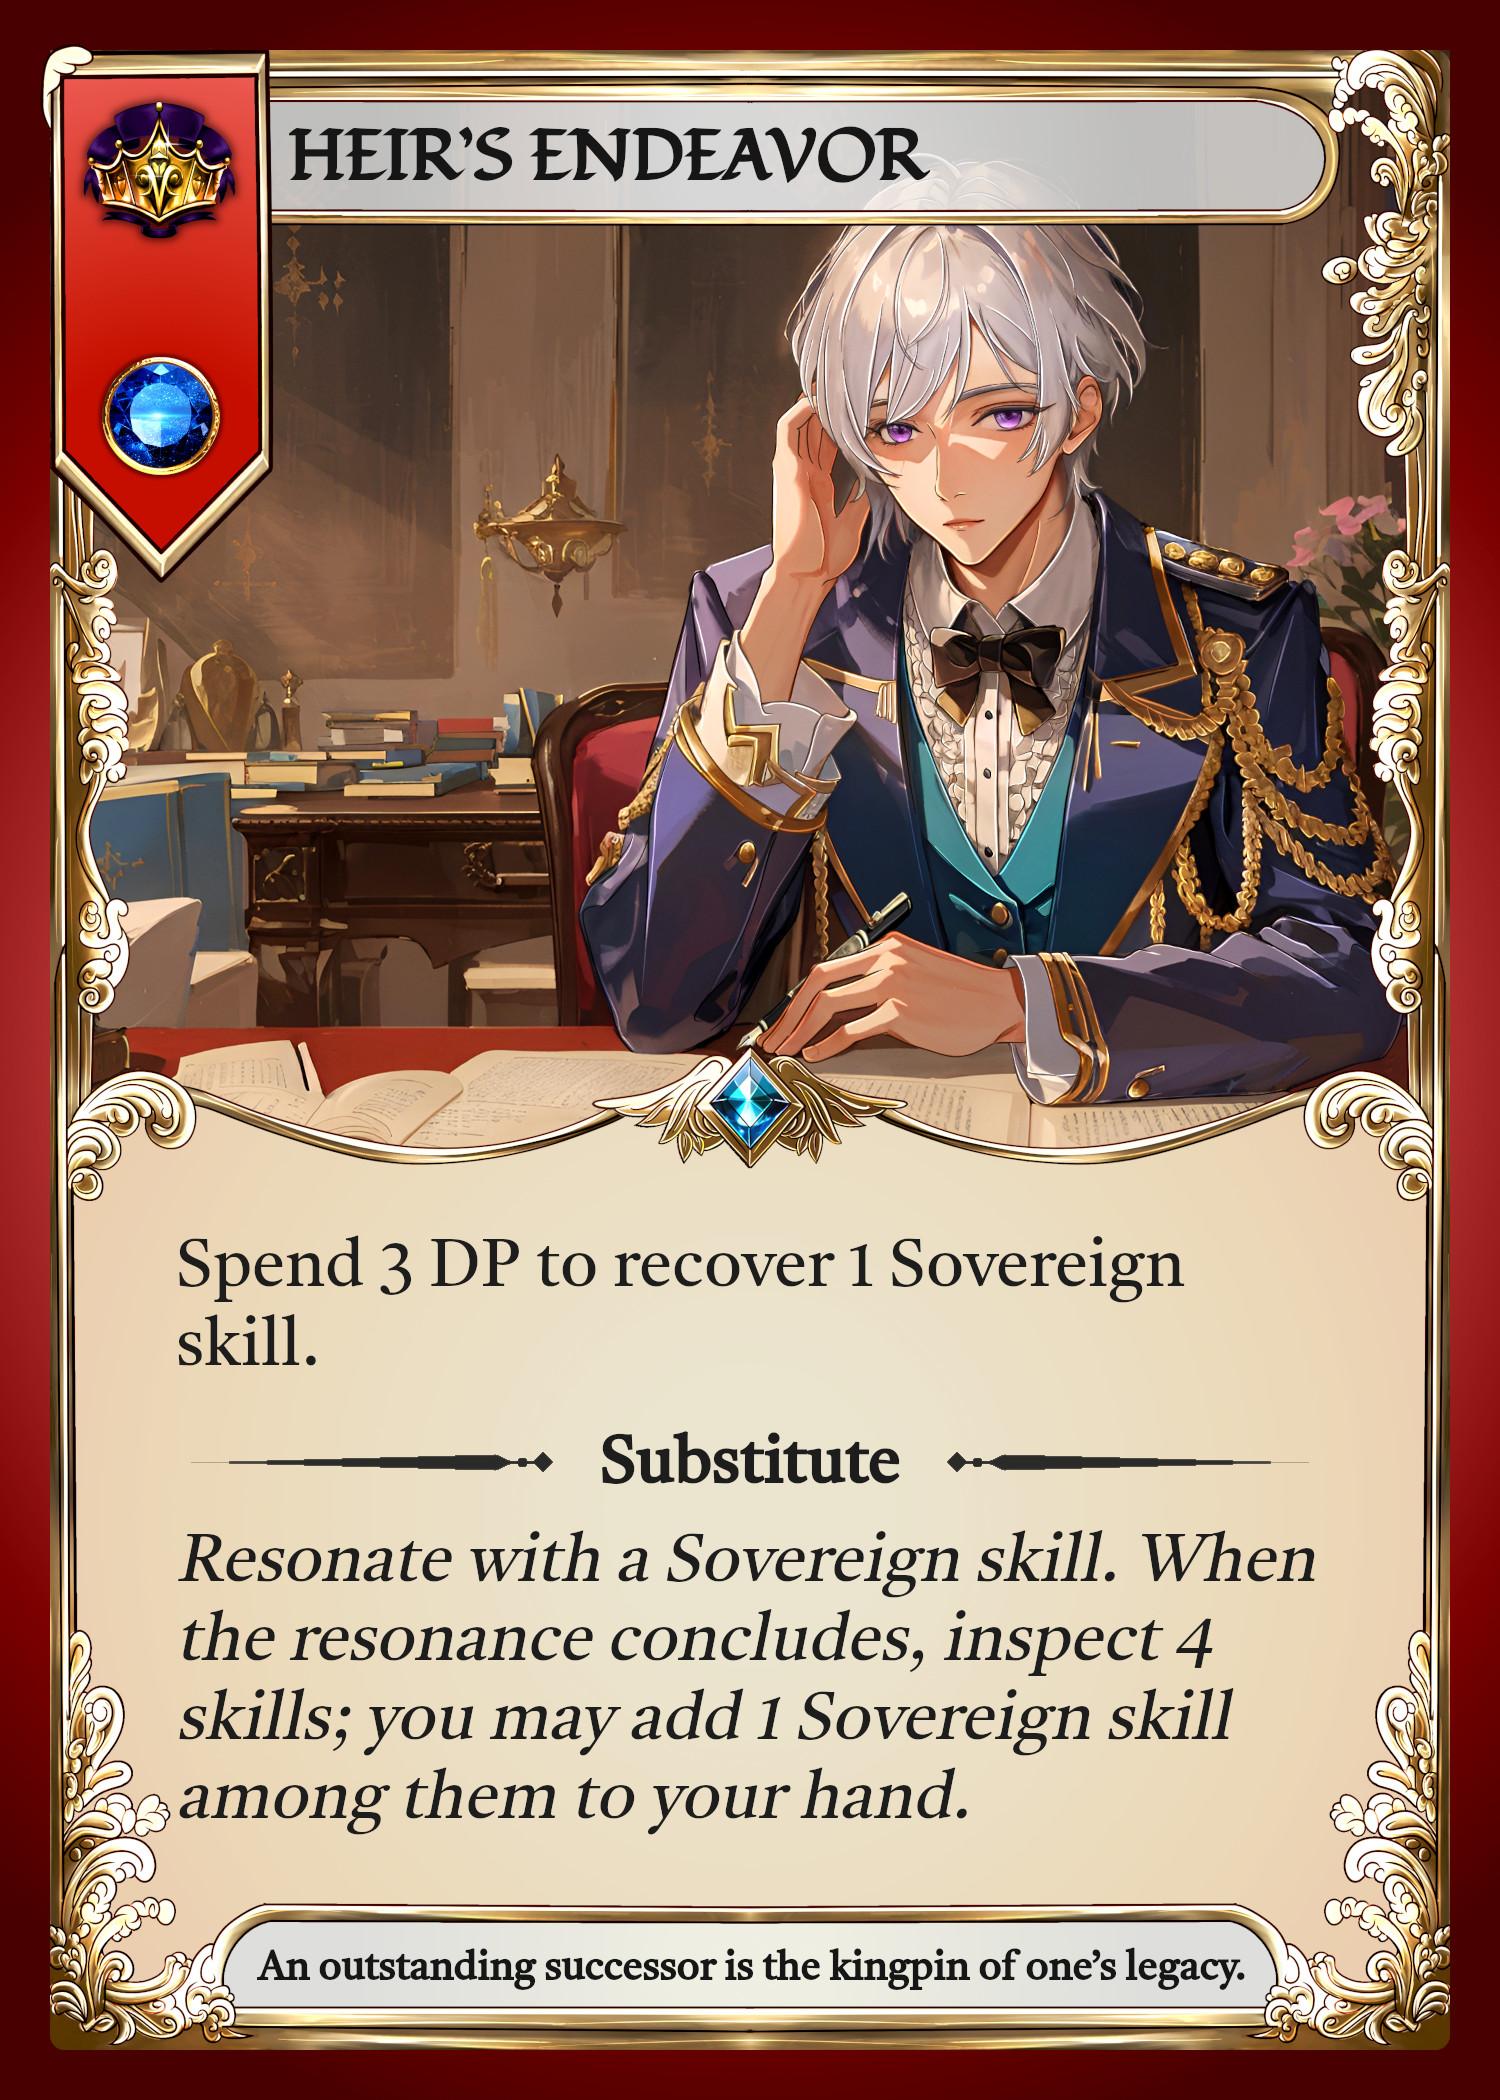
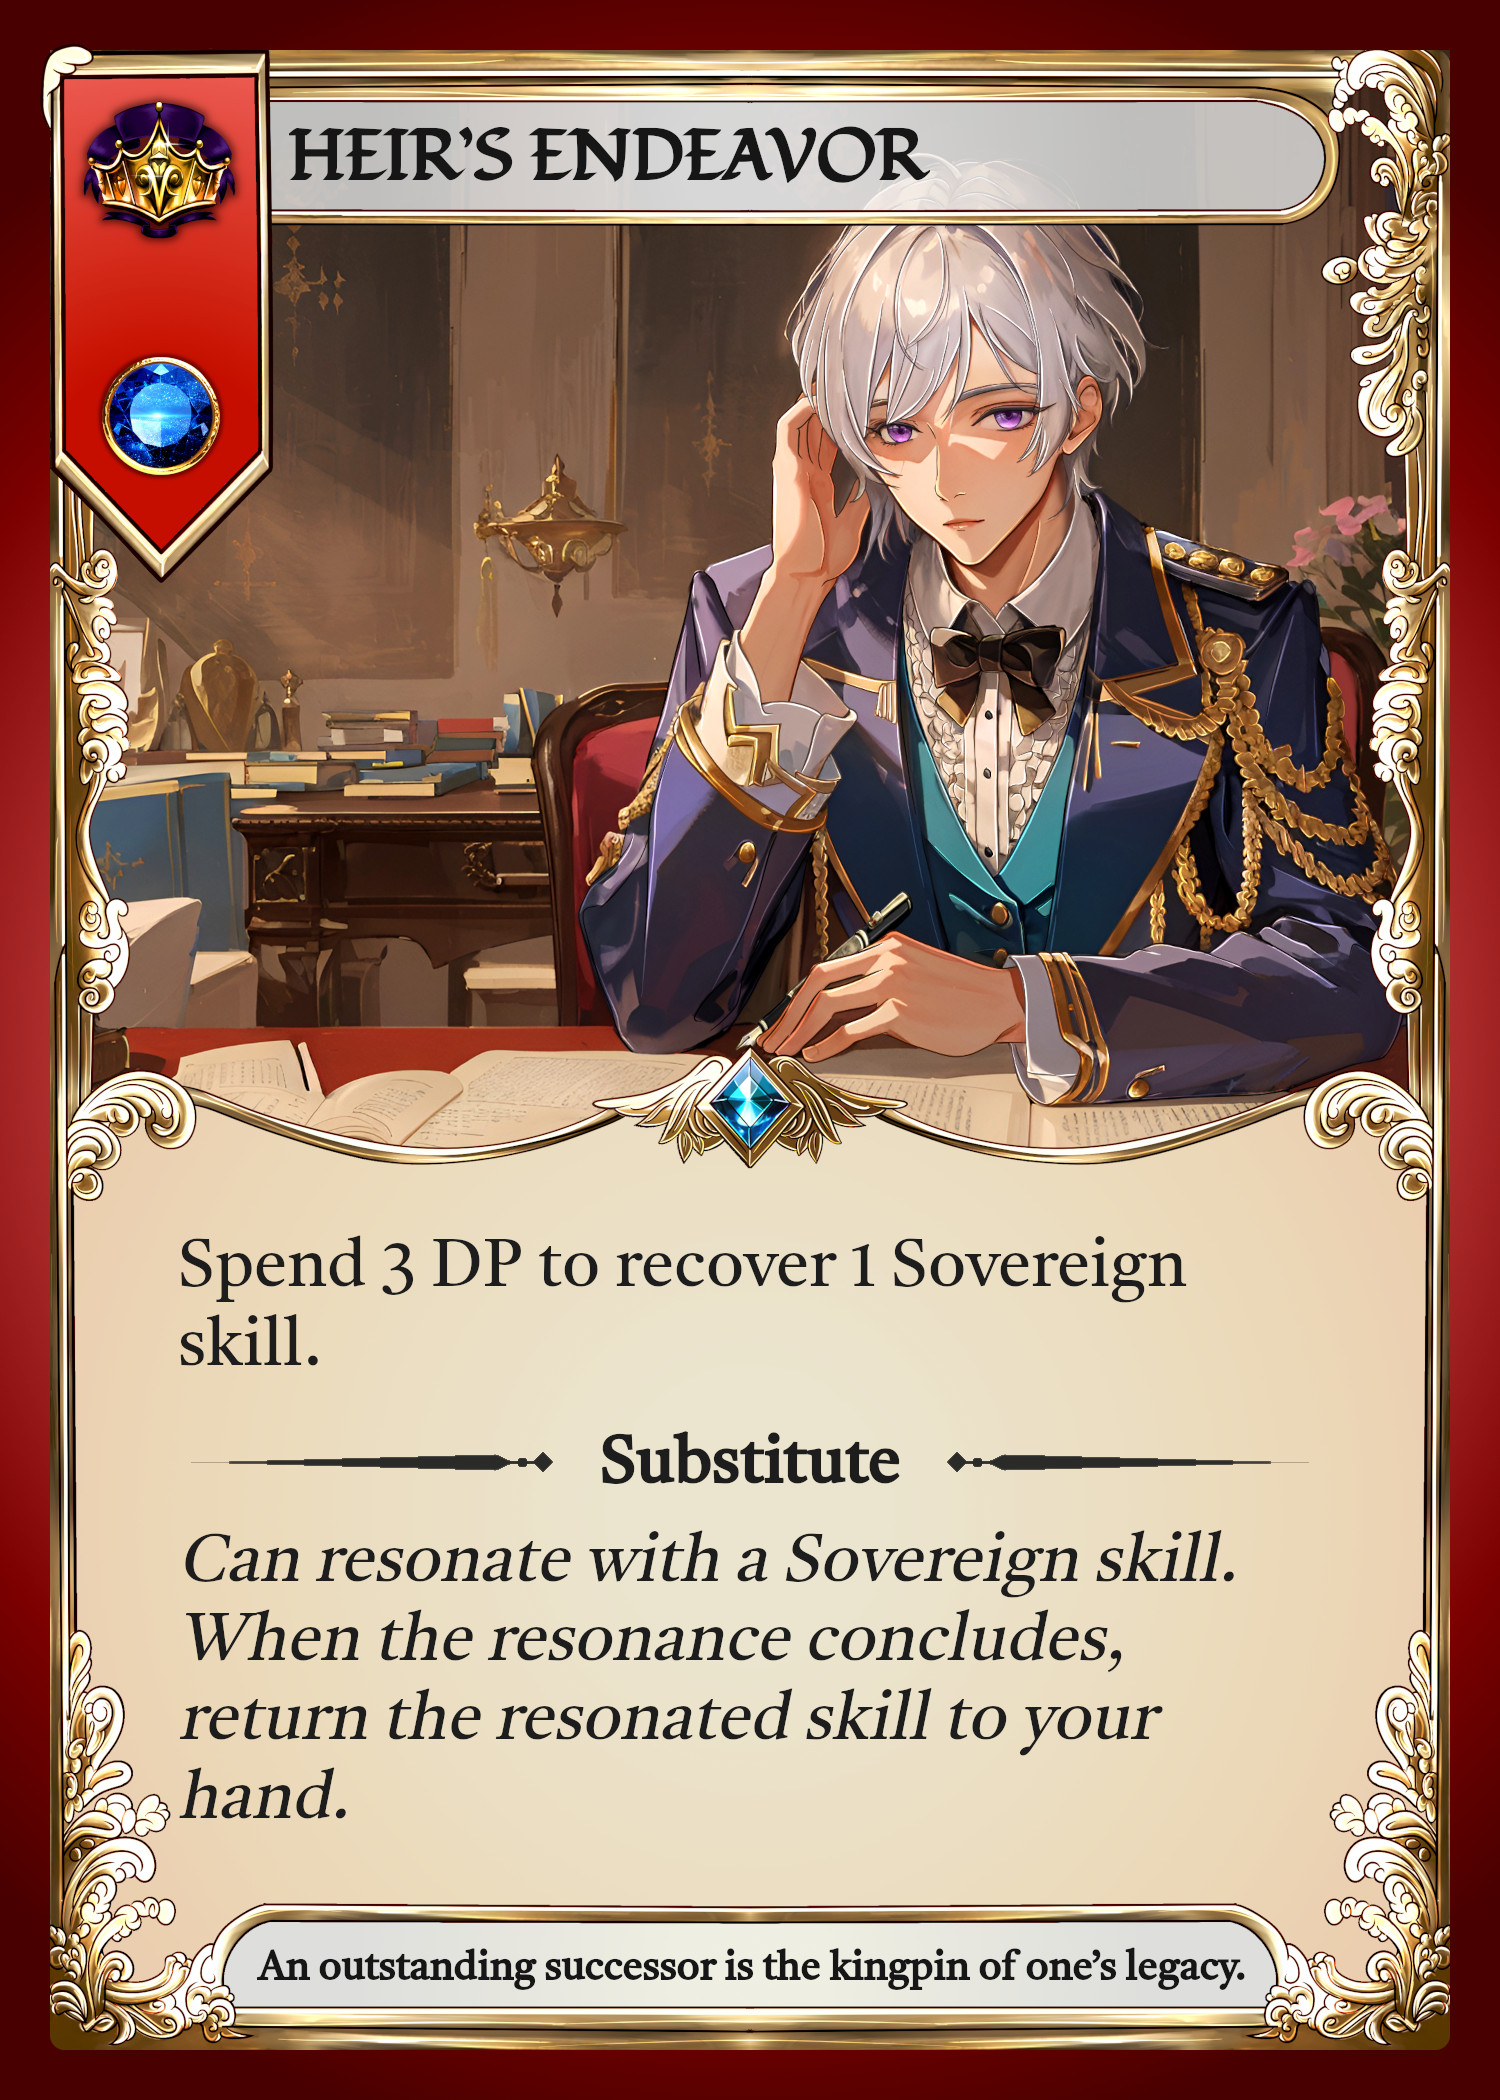
updated Heirs Endeavor. Reworked ActivateSovereign skill function:

diff --git a/src/hooks/useRecurringEffects.jsx b/src/hooks/useRecurringEffects.jsx
@@ -476,144 +476,21 @@ export const useRecurringEffects = () => {
     return newGameState;
   };
 
-  const activateSovereignSkill = (newGameState, skill) => {
-    const activateTemplate = (newGameState, skill, resolution, resolution2) => {
-      newGameState.currentResolution.push({
-        resolution: "Skill Conclusion",
-        player: self,
-        unit: null,
-        skill: skill,
-        skillConclusion: "discard",
-      });
+  const activateSovereignSkill = (newGameState, skill, resonator = null) => {
+    let conclusion = "discard";
 
-      newGameState.currentResolution.push({
-        resolution: resolution,
-        resolution2: resolution2,
-        player: self,
-      });
+    newGameState.activatingSkill.push(skill);
+    newGameState.activatingUnit.push(null);
 
-      newGameState.activatingSkill.push(skill);
-      newGameState.activatingUnit.push(null);
+    if (resonator) {
+      newGameState.activatingResonator.push(resonator);
+      //end Select Resonator resolution
+      newGameState.currentResolution.pop();
 
-      newGameState = animationDelay(newGameState, self);
-
-      return newGameState;
-    };
-
-    switch (skill) {
-      case "SA-01":
-        return activateTemplate(
-          newGameState,
-          skill,
-          "Sovereign Standard Skill",
-          "Activating Heir’s Endeavor"
-        );
-
-      case "SA-02":
-        return activateTemplate(
-          newGameState,
-          skill,
-          "Sovereign Standard Skill",
-          "Activating Tea for Two"
-        );
-
-      case "SA-03":
-        return activateTemplate(
-          newGameState,
-          skill,
-          "Sovereign Standard Skill",
-          "Activating Dark Halo"
-        );
-
-      case "SA-04":
-        return activateTemplate(
-          newGameState,
-          skill,
-          "Sovereign Standard Skill",
-          "Activating Reminiscence"
-        );
-
-      case "SA-05":
-        return activateTemplate(
-          newGameState,
-          skill,
-          "Sovereign Standard Skill",
-          "Activating Foreshadow"
-        );
-
-      case "SB-01":
-        return activateTemplate(
-          newGameState,
-          skill,
-          "Sovereign Resonant Skill",
-          "Activating Transmute"
-        );
-
-      case "SB-02":
-        return activateTemplate(
-          newGameState,
-          skill,
-          "Sovereign Resonant Skill",
-          "Activating Ambidexterity"
-        );
-
-      case "SB-03":
-        return activateTemplate(
-          newGameState,
-          skill,
-          "Sovereign Resonant Skill",
-          "Activating Providence"
-        );
-
-      case "SB-04":
-        return activateTemplate(
-          newGameState,
-          skill,
-          "Sovereign Resonant Skill",
-          "Activating Fervent Prayer"
-        );
-
-      case "SB-05":
-        return activateTemplate(
-          newGameState,
-          skill,
-          "Sovereign Resonant Skill",
-          "Activating Press the Attack"
-        );
-
-      default:
-        return newGameState;
-    }
-  };
-
-  const activateSovereignSkillAndResonate = (
-    newGameState,
-    skill,
-    resonator
-  ) => {
-    //end Select Resonator resolution
-    newGameState.currentResolution.pop();
-
-    const activateResonanceTemplate = (
-      newGameState,
-      skill,
-      resolution,
-      resolution2,
-      resonator,
-      defaultConclusion
-    ) => {
       if (resonator === "SA-01") {
-        newGameState.currentResolution.push({
-          resolution: "Sovereign Resonant Skill",
-          resolution2: "Heirs Endeavor Resonance",
-          player: self,
-        });
-      }
-
-      let skillConclusion = "discard";
-
-      if (defaultConclusion === "retain" && resonator !== "SA-02") {
-        skillConclusion = defaultConclusion;
+        conclusion = "retain";
+      } else if (resonator !== "SA-02") {
+        conclusion = "float";
       }
 
       newGameState.currentResolution.push({
@@ -621,91 +498,30 @@ export const useRecurringEffects = () => {
         player: self,
         unit: null,
         skill: skill,
-        skillConclusion: skillConclusion, // either retain or discard
+        skillConclusion: conclusion,
         resonator: resonator,
         resonatorConclusion: "discard",
       });
-
-      if (defaultConclusion === "float" && resonator !== "SA-02") {
-        newGameState.currentResolution.push({
-          resolution: "Misc.",
-          resolution2: "May float resonant skill",
-          player: self,
-          skill: skill,
-          resonator: resonator,
-        });
-      }
-
+    } else {
       newGameState.currentResolution.push({
-        resolution: resolution,
-        resolution2: resolution2,
+        resolution: "Skill Conclusion",
         player: self,
-        resonator: resonator,
+        unit: null,
+        skill: skill,
+        skillConclusion: conclusion,
       });
-
-      newGameState = animationDelay(newGameState, self);
-
-      newGameState.activatingSkill.push(skill);
-      newGameState.activatingResonator.push(resonator);
-      newGameState.activatingUnit.push(null);
-
-      return newGameState;
-    };
-
-    switch (skill) {
-      case "SB-01":
-        return activateResonanceTemplate(
-          newGameState,
-          skill,
-          "Sovereign Resonant Skill",
-          "Activating Transmute",
-          resonator,
-          "retain"
-        );
-
-      case "SB-02":
-        return activateResonanceTemplate(
-          newGameState,
-          skill,
-          "Sovereign Resonant Skill",
-          "Activating Ambidexterity",
-          resonator,
-          "float"
-        );
-
-      case "SB-03":
-        return activateResonanceTemplate(
-          newGameState,
-          skill,
-          "Sovereign Resonant Skill",
-          "Activating Providence",
-          resonator,
-          "retain"
-        );
-
-      case "SB-04":
-        return activateResonanceTemplate(
-          newGameState,
-          skill,
-          "Sovereign Resonant Skill",
-          "Activating Fervent Prayer",
-          resonator,
-          "float"
-        );
-
-      case "SB-05":
-        return activateResonanceTemplate(
-          newGameState,
-          skill,
-          "Sovereign Resonant Skill",
-          "Activating Press the Attack",
-          resonator,
-          "retain"
-        );
-
-      default:
-        return newGameState;
     }
+
+    const skillData = getSkillById(skill);
+
+    newGameState.currentResolution.push({
+      resolution: "Sovereign " + skillData.Method + " Skill",
+      resolution2: "Activating " + skillData.Name,
+      resonator,
+      player: self,
+    });
+
+    return newGameState;
   };
 
   const activateThunderThaumaturge = (newGameState, unit, attacker) => {
@@ -2334,6 +2150,7 @@ export const useRecurringEffects = () => {
             details: {
               title: "Funeral Flowers",
               reason: "Funeral Flowers",
+              message: "You may search for 1 “Viridian Grave”.",
               no: "Skip",
               yes: "Search",
             },
@@ -4217,7 +4034,6 @@ export const useRecurringEffects = () => {
     activatePitfallTrap,
     activateSkill,
     activateSovereignSkill,
-    activateSovereignSkillAndResonate,
     activateSymphonicScreech,
     activateThunderThaumaturge,
     activateVengefulLegacy,

diff --git a/src/hooks/useSovereignSkillEffects.jsx b/src/hooks/useSovereignSkillEffects.jsx
@@ -48,30 +48,6 @@ export const useSovereignSkillEffects = () => {
     return newGameState;
   };
 
-  const heirsEndeavorResonance = () => {
-    let newGameState = JSON.parse(JSON.stringify(localGameState));
-    //end "Heirs Endeavor Resonance"
-    newGameState.currentResolution.pop();
-
-    newGameState.currentResolution.push({
-      resolution: "Misc.",
-      resolution2: "Inspect Skill",
-      player: self,
-      details: {
-        restriction: sovereignSkillList(),
-        title: "Heir’s Endeavor",
-        reason: "Heir’s Endeavor",
-        message:
-          "Inspect 4 skills; you may add 1 Sovereign skill among them to your hand.",
-        inspectionCount: 4,
-        select: "Single",
-        outcome: "Add",
-      },
-    });
-
-    return newGameState;
-  };
-
   const teaForTwo1 = () => {
     let newGameState = JSON.parse(JSON.stringify(localGameState));
 
@@ -780,7 +756,6 @@ export const useSovereignSkillEffects = () => {
 
   return {
     heirsEndeavor1,
-    heirsEndeavorResonance,
     teaForTwo1,
     darkHalo1,
     reminiscence1,

diff --git a/src/components/modals/SelectResonator.jsx b/src/components/modals/SelectResonator.jsx
@@ -22,7 +22,7 @@ const SelectResonator = (props) => {
   const [selectedSkill, setSelectedSkill] = useState(null);
 
   const { getScionSet } = useCardDatabase();
-  const { activateAvelhem, activateSkill, activateSovereignSkillAndResonate } =
+  const { activateAvelhem, activateSkill, activateSovereignSkill } =
     useRecurringEffects();
 
   let usableAvelhems = [];
@@ -139,7 +139,7 @@ const SelectResonator = (props) => {
         );
       } else {
         //Sovereign skill
-        newGameState = activateSovereignSkillAndResonate(
+        newGameState = activateSovereignSkill(
           newGameState,
           props.skill.id,
           usableSkills[selectedSkill].id

diff --git a/src/pages/Rules.jsx b/src/pages/Rules.jsx
@@ -968,10 +968,9 @@ export default function Rules() {
                 >
                   Heir’s Endeavor
                 </span>{" "}
-                as a resonator can only resonate with Sovereign skills, and it
-                allows the activator to inspect skills when the resonance
-                concludes, while its primary effect of recovering a Sovereign
-                skill is ignored.
+                as a resonator can only resonate with Sovereign skills. When
+                doing so, its primary effect of recovering a Sovereign skill is
+                ignored.
               </p>
               <br />
               <h2>Float</h2>

diff --git a/src/hooks/UseCurrentResolution.jsx b/src/hooks/UseCurrentResolution.jsx
@@ -91,7 +91,6 @@ const UseCurrentResolution = (props) => {
 
   const {
     heirsEndeavor1,
-    heirsEndeavorResonance,
     teaForTwo1,
     reminiscence1,
     foreshadow1,
@@ -3010,12 +3009,6 @@ const UseCurrentResolution = (props) => {
               )}
             </>
           );
-
-        case "Heirs Endeavor Resonance":
-          if (self === lastRes.player) {
-            props.updateLocalState(heirsEndeavorResonance());
-          }
-          break;
       }
       break;
 

diff --git a/src/components/modals/YouMayNoYes.jsx b/src/components/modals/YouMayNoYes.jsx
@@ -320,7 +320,7 @@ const YouMayNoYes = (props) => {
             restriction: ["08-03"],
             exclusion: [],
             searchTitle: "Funeral Flowers",
-            searchMessage: "Search for 1 Viridian Grave.",
+            searchMessage: "Search for 1 “Viridian Grave”.",
             outcome: "Add",
             revealTitle: null,
             revealMessage: null,
